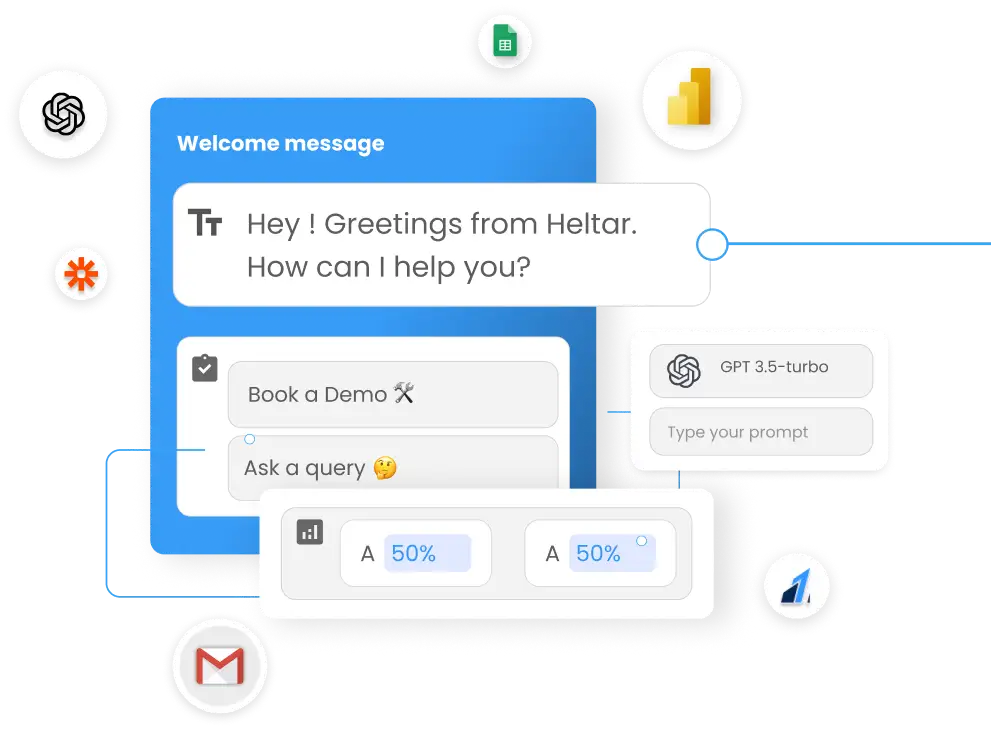
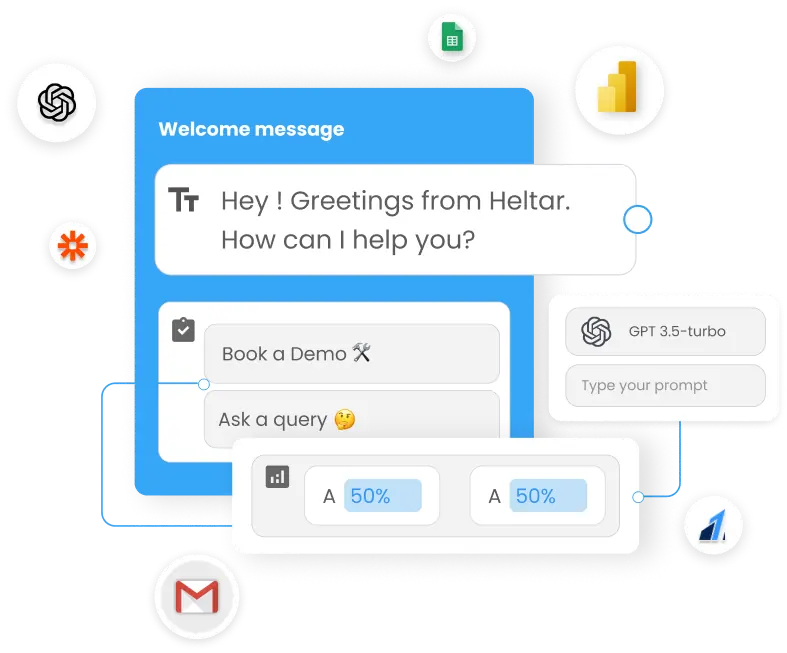
changed images

diff --git a/styles/home.css b/styles/home.css
@@ -3,10 +3,6 @@
     --primary-accent-color: #34A9FF;
 }
 
-html {
-    /* scroll-snap-type: y mandatory; */
-}
-
 body {
     margin: 0;
     width: 100%;
@@ -23,7 +19,9 @@ body {
     width: 100%;
     align-items: center;
     box-sizing: border-box;
-    padding: 0 calc(50vw - 35rem);
+    justify-content: center;
+    column-gap: 3rem;
+    padding: 0 6rem;
 }
 
 #hero h3 {
@@ -94,18 +92,20 @@ body {
 }
 
 #hero-images {
-    width: 50vw;
-    height: 100%;
+    height: min(32rem, 100vh - 16rem);
+    width: min(32rem, 100vh - 16rem);
     display: flex;
     flex-direction: column;
     justify-content: center;
     align-items: flex-end;
     position: relative;
-    margin-right: -6rem;
 }
 
 #hero-images img {
-    height: calc(100vh - 20rem) !important;
+    height: 120%;
+    width: 100%;
+    object-fit: contain;
+    object-position: center;
     position: absolute;
 
     visibility: hidden;
@@ -125,9 +125,141 @@ body {
     transition-delay: 0s, 0.5s;
 }
 
-@media only screen and (max-width: 1280px) {
-    #hero { padding: 0 4rem; }
+
+
+@media only screen and (max-height: 640px) {
+    #hero {
+        height: calc(100vh - 12rem) !important;
+    }
+
+    #hero-images {
+        height: min(40rem, 100vh - 12rem);
+        width: min(40rem, 100vh - 12rem);
+    }
 }
+
+
+@media only screen and (max-height: 640px), only screen and (max-width: 1180px) {
+
+    #hero {
+        column-gap: 2rem;
+    }
+
+
+    #hero h3 {
+        font-size: 2rem;
+        box-shadow: 0 0 0.4rem 0.4rem #ffffff;
+        background: white;
+    }
+    #hero-headers { margin: -1.2rem 0; }
+    #hero h2 { font-size: 3.6rem; }
+    #hero span {
+        width: 18rem;
+        margin: 0.5rem 0 1rem 0;
+    }
+    #hero #hero-btns input[type=button] {
+        padding: 0.6rem 0; width: 10rem;
+        border-radius: 0.5rem;
+    }
+}
+
+
+@media only screen and (max-height: 500px), only screen and (max-width: 920px) {
+    #hero h3 {
+        font-size: 1.8rem;
+        box-shadow: 0 0 0.1rem 0.1rem #ffffff;
+        background: white;
+    }
+    #hero-headers { margin: -1.8rem 0; }
+    #hero h2 { font-size: 3rem; }
+    #hero span {
+        width: 18rem;
+        margin: 0.4rem 0 0.8rem 0;
+    }
+    #hero #hero-btns input[type=button] {
+        padding: 0.5rem 0; width: 9rem;
+        border-radius: 0.5rem;
+    }
+}
+
+@media only screen and (max-height: 460px) {
+    #hero {
+        height: calc(100vh - 6rem) !important;
+    }
+
+    #hero-images {
+        height: min(40rem, 100vh - 6rem);
+        width: min(40rem, 100vh - 6rem);
+    }
+}
+ 
+
+@media only screen and (max-width: 840px) {
+    #hero {
+        padding: 0 3rem;
+    }
+}
+    
+
+@media only screen and (max-width: 760px) {
+    #hero {
+        height: 44rem !important;
+        flex-direction: column;
+    }
+
+    #hero-text {
+        display: flex;
+        flex-direction: column;
+        align-items: center;
+        text-align: center;
+    }
+
+    #hero h3 {
+        width: 100%;
+    }
+
+
+    #hero-images {
+        height: min(24rem, calc(100vw - 2rem)) !important;
+        width: min(24rem, calc(100vw - 2rem)) !important;
+    }
+}
+
+@media only screen and (max-width: 420px) {
+    #hero {
+        height: max-content !important;
+    }
+}
+
+@media only screen and (max-width: 375px) {
+    #hero h3 {
+        font-size: 1.5rem;
+        box-shadow: 0 0 0rem 0rem #ffffff;
+        background: white;
+    }
+    #hero-headers { margin: -2rem 0; }
+    #hero h2 { font-size: 2.5rem; }
+    #hero span {
+        width: 16rem;
+        margin: 0.4rem 0 0.8rem 0;
+        font-size: 0.8rem;
+    }
+    #hero #hero-btns {
+        flex-wrap: wrap;
+        justify-content: center;
+        row-gap: 0.5rem;
+        width: 100%;
+    }
+    #hero #hero-btns input[type=button] {
+        font-size: 0.8rem;
+        padding: 0.5rem 0; width: 9rem;
+        border-radius: 0.5rem;
+    }
+}
+
+/* 
+
+
 
 @media only screen and (max-width: 1220px), only screen and (max-height: 640px){
     #hero { padding: 0 5rem; }
@@ -269,7 +401,7 @@ body {
     #hero span {
         font-size: 0.8rem;
     }
-}
+} */
 
 /* trusted By */
 
@@ -305,7 +437,7 @@ body {
     width: 100%;
 }
 
-#trustedBy #trustedBy-wall #copy1, #trustedBy #trustedBy-wall #copy2 {
+#trustedBy #trustedBy-wall #copy1, #trustedBy #trustedBy-wall #copy2, #trustedBy #trustedBy-wall #copy3 {
     display: flex;
     flex-direction: row;
     align-items: center;
@@ -318,7 +450,7 @@ body {
     }
 }
 
-@media only screen and (max-height: 600px){
+@media only screen and (max-height: 640px){
     #trustedBy #trustedBy-wall img {
         height: 4rem;
     }

diff --git a/index.html b/index.html
@@ -73,7 +73,6 @@
             <div id="hero-images">
                 <img
                     class="visible"
-                    style="z-index: 30; height: calc(100vh - 14rem);"
                     sizes="70vw"
                     srcset="assets/frame1.webp 700w, assetsMobile/frame1.webp 400w"
                     alt="hero"
@@ -82,7 +81,6 @@
                 <img
                     loading="lazy"
                     class="hidden"
-                    style="right: 6vw; height: calc(100vh - 14rem);"
                     sizes="70vw"
                     srcset="assets/frame2.webp 700w, assetsMobile/frame2.webp 400w"
                     alt="hero"
@@ -91,7 +89,6 @@
                 <img
                     loading="lazy"
                     class="hidden"
-                    style="right: 6vw; height: calc(100vh - 14rem);"
                     sizes="70vw"
                     srcset="assets/frame3.webp 700w, assetsMobile/frame3.webp 400w"
                     alt="hero"
@@ -100,7 +97,6 @@
                 <img
                     loading="lazy"
                     class="hidden"
-                    style="right: 6vw; height: calc(100vh - 14rem);"
                     sizes="70vw"
                     srcset="assets/frame4.webp 700w, assetsMobile/frame4.webp 400w"
                     alt="hero"
@@ -122,6 +118,15 @@
                 </div>
 
                 <div id="copy2">
+                    <img src="assets/covrzy.webp" alt="Covrzy">
+                    <img src="assets/indiamart.webp" alt="Indiamart">
+                    <img src="assets/sunstone.webp" alt="Sunstone">
+                    <img src="assets/superfone.webp" alt="Superfone">
+                    <img src="assets/bambinos.webp" alt="Bambinos">
+                    <img src="assets/mesa.webp" alt="Mesa">
+                </div>
+
+                <div id="copy3">
                     <img src="assets/covrzy.webp" alt="Covrzy">
                     <img src="assets/indiamart.webp" alt="Indiamart">
                     <img src="assets/sunstone.webp" alt="Sunstone">
